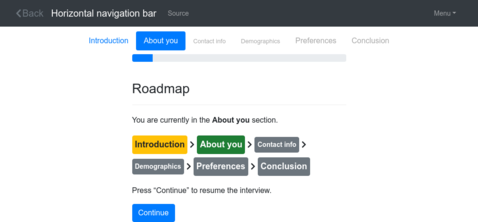
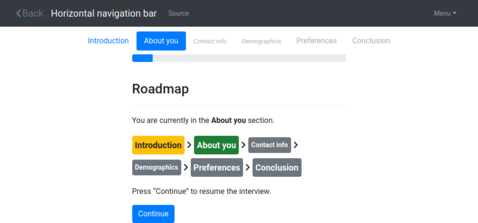
mobile sections; attachment email customization

diff --git a/docassemble/webapp/static/app/app.css b/docassemble/webapp/static/app/app.css
@@ -1405,6 +1405,28 @@ div.danavnested-horiz {
     font-size: 80%;
 }
 
+@media (max-width: 767px) {
+    div.danav-horiz > .danavlink {
+	border-width: 0 0 0.1rem 0;
+	margin: 0px 3px 0px 0px;
+	padding: 0.5rem 0.25rem 0.4rem 0.25rem;
+    }
+
+    div.danav-horiz > a.danotavailableyet {
+	border-width: 0;
+    }
+
+    div.danav-horiz > a.inactive {
+	border-width: 0;
+    }
+}
+
+@media (max-width: 575px) {
+    div.danav-horiz > .danavlink {
+	font-size: 11px;
+    }
+}
+
 /* .danav > a.inactive:hover, */
 /* .danav > a.inactive:focus { */
 /*     color: #337ab7; */

diff --git a/docassemble/webapp/static/app/bundle.css b/docassemble/webapp/static/app/bundle.css
@@ -1885,6 +1885,28 @@ div.danavnested-horiz {
     font-size: 80%;
 }
 
+@media (max-width: 767px) {
+    div.danav-horiz > .danavlink {
+	border-width: 0 0 0.1rem 0;
+	margin: 0px 3px 0px 0px;
+	padding: 0.5rem 0.25rem 0.4rem 0.25rem;
+    }
+
+    div.danav-horiz > a.danotavailableyet {
+	border-width: 0;
+    }
+
+    div.danav-horiz > a.inactive {
+	border-width: 0;
+    }
+}
+
+@media (max-width: 575px) {
+    div.danav-horiz > .danavlink {
+	font-size: 11px;
+    }
+}
+
 /* .danav > a.inactive:hover, */
 /* .danav > a.inactive:focus { */
 /*     color: #337ab7; */

diff --git a/docassemble/webapp/server.py b/docassemble/webapp/server.py
@@ -2282,9 +2282,11 @@ def test_for_valid_var(varname):
     if not valid_python_var.match(varname):
         raise DAError(varname + " is not a valid name.  A valid name consists only of letters, numbers, and underscores, and begins with a letter.")
 
-def navigation_bar(nav, interview, wrapper=True, inner_div_class=None, show_links=True, hide_inactive_subs=True, a_class=None, show_nesting=True, include_arrows=False):
+def navigation_bar(nav, interview, wrapper=True, inner_div_class=None, inner_div_extra=None, show_links=True, hide_inactive_subs=True, a_class=None, show_nesting=True, include_arrows=False, always_open=False):
     if inner_div_class is None:
         inner_div_class = 'nav flex-column nav-pills danav danavlinks danav-vertical danavnested'
+    if inner_div_extra is None:
+        inner_div_extra = ''
     if a_class is None:
         a_class = 'nav-link danavlink'
     #logmessage("navigation_bar: starting: " + str(section))
@@ -2293,7 +2295,7 @@ def navigation_bar(nav, interview, wrapper=True, inner_div_class=None, show_link
         non_progressive = True
     else:
         non_progressive = False
-    if hasattr(nav, 'auto_open') and nav.auto_open:
+    if always_open or (hasattr(nav, 'auto_open') and nav.auto_open):
         auto_open = True
     else:
         auto_open = False
@@ -2458,9 +2460,9 @@ def navigation_bar(nav, interview, wrapper=True, inner_div_class=None, show_link
                 #suboutput += "</li>"
             if currently_active or current_is_within or hide_inactive_subs is False or show_nesting:
                 if currently_active or current_is_within or auto_open:
-                    suboutput = '<div class="' + inner_div_class + '">' + suboutput
+                    suboutput = '<div class="' + inner_div_class + '"' + inner_div_extra + '>' + suboutput
                 else:
-                    suboutput = '<div style="display: none;" class="danotshowing ' + inner_div_class + '">' + suboutput
+                    suboutput = '<div style="display: none;" class="danotshowing ' + inner_div_class + '"' + inner_div_extra + '>' + suboutput
                 suboutput += "</div>"
                 output += suboutput
             else:
@@ -6105,7 +6107,7 @@ def index(action_argument=None, refer=None):
             worker_key = 'da:worker:uid:' + str(user_code) + ':i:' + str(yaml_filename) + ':userid:' + str(the_user_id)
             for email_address in re.split(r' *[,;] *', attachment_email_address):
                 try:
-                    result = docassemble.webapp.worker.email_attachments.delay(user_code, email_address, attachment_info, docassemble.base.functions.get_language())
+                    result = docassemble.webapp.worker.email_attachments.delay(user_code, email_address, attachment_info, docassemble.base.functions.get_language(), subject=interview_status.extras.get('email_subject', None), body=interview_status.extras.get('email_body', None), html=interview_status.extras.get('email_html', None))
                     r.rpush(worker_key, result.id)
                     success = True
                 except Exception as errmess:
@@ -10542,11 +10544,32 @@ def index(action_argument=None, refer=None):
     else:
         the_progress_bar = None
     if interview_status.question.interview.use_navigation and user_dict['nav'].visible():
+        if interview_status.question.interview.use_navigation_on_small_screens == 'dropdown':
+            dropdown_nav_bar = navigation_bar(user_dict['nav'], interview_status.question.interview, wrapper=False, a_class='dropdown-item', hide_inactive_subs=False, always_open=True)
+            if dropdown_nav_bar != '':
+                dropdown_nav_bar = '        <div class="col d-md-none text-right">\n          <div class="dropdown">\n            <button class="btn btn-primary dropdown-toggle" type="button" id="daDropdownSections" data-toggle="dropdown" aria-haspopup="true" aria-expanded="false">' + word("Sections") + '</button>\n            <div class="dropdown-menu" aria-labelledby="daDropdownSections">' + dropdown_nav_bar + '\n          </div>\n          </div>\n        </div>\n'
+        else:
+            dropdown_nav_bar = ''
         if interview_status.question.interview.use_navigation == 'horizontal':
+            if interview_status.question.interview.use_navigation_on_small_screens is not True:
+                nav_class = ' d-none d-md-block'
+            else:
+                nav_class = ''
             the_nav_bar = navigation_bar(user_dict['nav'], interview_status.question.interview, wrapper=False, inner_div_class='nav flex-row justify-content-center align-items-center nav-pills danav danavlinks danav-horiz danavnested-horiz')
             if the_nav_bar != '':
-                the_nav_bar = '        <div class="col d-none d-md-block">\n          <div class="nav flex-row justify-content-center align-items-center nav-pills danav danavlinks danav-horiz">\n            ' + the_nav_bar + '\n          </div>\n        </div>\n      </div>\n      <div class="row tab-content">\n'
+                the_nav_bar = dropdown_nav_bar + '        <div class="col' + nav_class + '">\n          <div class="nav flex-row justify-content-center align-items-center nav-pills danav danavlinks danav-horiz">\n            ' + the_nav_bar + '\n          </div>\n        </div>\n      </div>\n      <div class="row tab-content">\n'
         else:
+            if interview_status.question.interview.use_navigation_on_small_screens == 'dropdown':
+                if dropdown_nav_bar:
+                    horiz_nav_bar = dropdown_nav_bar + '\n      </div>\n      <div class="row tab-content">\n'
+                else:
+                    horiz_nav_bar = ''
+            elif interview_status.question.interview.use_navigation_on_small_screens:
+                horiz_nav_bar = navigation_bar(user_dict['nav'], interview_status.question.interview, wrapper=False, inner_div_class='nav flex-row justify-content-center align-items-center nav-pills danav danavlinks danav-horiz danavnested-horiz')
+                if horiz_nav_bar != '':
+                    horiz_nav_bar = dropdown_nav_bar + '        <div class="col d-md-none">\n          <div class="nav flex-row justify-content-center align-items-center nav-pills danav danavlinks danav-horiz">\n            ' + horiz_nav_bar + '\n          </div>\n        </div>\n      </div>\n      <div class="row tab-content">\n'
+            else:
+                horiz_nav_bar = ''
             the_nav_bar = navigation_bar(user_dict['nav'], interview_status.question.interview)
         if the_nav_bar != '':
             if interview_status.question.interview.use_navigation == 'horizontal':
@@ -10633,6 +10656,8 @@ def index(action_argument=None, refer=None):
         output = make_navbar(interview_status, (steps - user_dict['_internal']['steps_offset']), interview_status.question.interview.consolidated_metadata.get('show login', SHOW_LOGIN), user_dict['_internal']['livehelp'], debug_mode, index_params)
     output += flash_content + '    <div class="container">' + "\n      " + '<div class="row tab-content">' + "\n"
     if the_nav_bar != '':
+        if interview_status.using_navigation == 'vertical':
+            output += horiz_nav_bar
         output += the_nav_bar
     output += content
     if 'rightText' in interview_status.extras:

diff --git a/docassemble/webapp/worker.py b/docassemble/webapp/worker.py
@@ -896,7 +896,7 @@ def update_packages():
     return worker_controller.functions.ReturnValue(ok=False, error_message="Reached end")
 
 @workerapp.task
-def email_attachments(user_code, email_address, attachment_info, language):
+def email_attachments(user_code, email_address, attachment_info, language, subject=None, body=None, html=None):
     success = False
     if not hasattr(worker_controller, 'loaded'):
         initialize_db()
@@ -913,12 +913,15 @@ def email_attachments(user_code, email_address, attachment_info, language):
             for attach_info in attachment_info:
                 if attach_info['attachment']['name'] not in doc_names:
                     doc_names.append(attach_info['attachment']['name'])
-            subject = worker_controller.functions.comma_and_list(doc_names)
-            if len(doc_names) > 1:
-                body = worker_controller.functions.word("Your documents, ") + " " + subject + worker_controller.functions.word(", are attached") + "."
-            else:
-                body = worker_controller.functions.word("Your document, ") + " " + subject + worker_controller.functions.word(", is attached") + "."
-            html = "<p>" + body + "</p>"
+            if subject is None:
+                subject = worker_controller.functions.comma_and_list(doc_names)
+            if body is None:
+                if len(doc_names) > 1:
+                    body = worker_controller.functions.word("Your documents, %s, are attached.") % (worker_controller.functions.comma_and_list(doc_names),)
+                else:
+                    body = worker_controller.functions.word("Your document, %s, is attached.") % (worker_controller.functions.comma_and_list(doc_names),)
+            if html is None:
+                html = "<p>" + body + "</p>"
             msg = worker_controller.Message(subject, recipients=[email_address], body=body, html=html)
             success_attach = True
             for attach_info in attachment_info:
